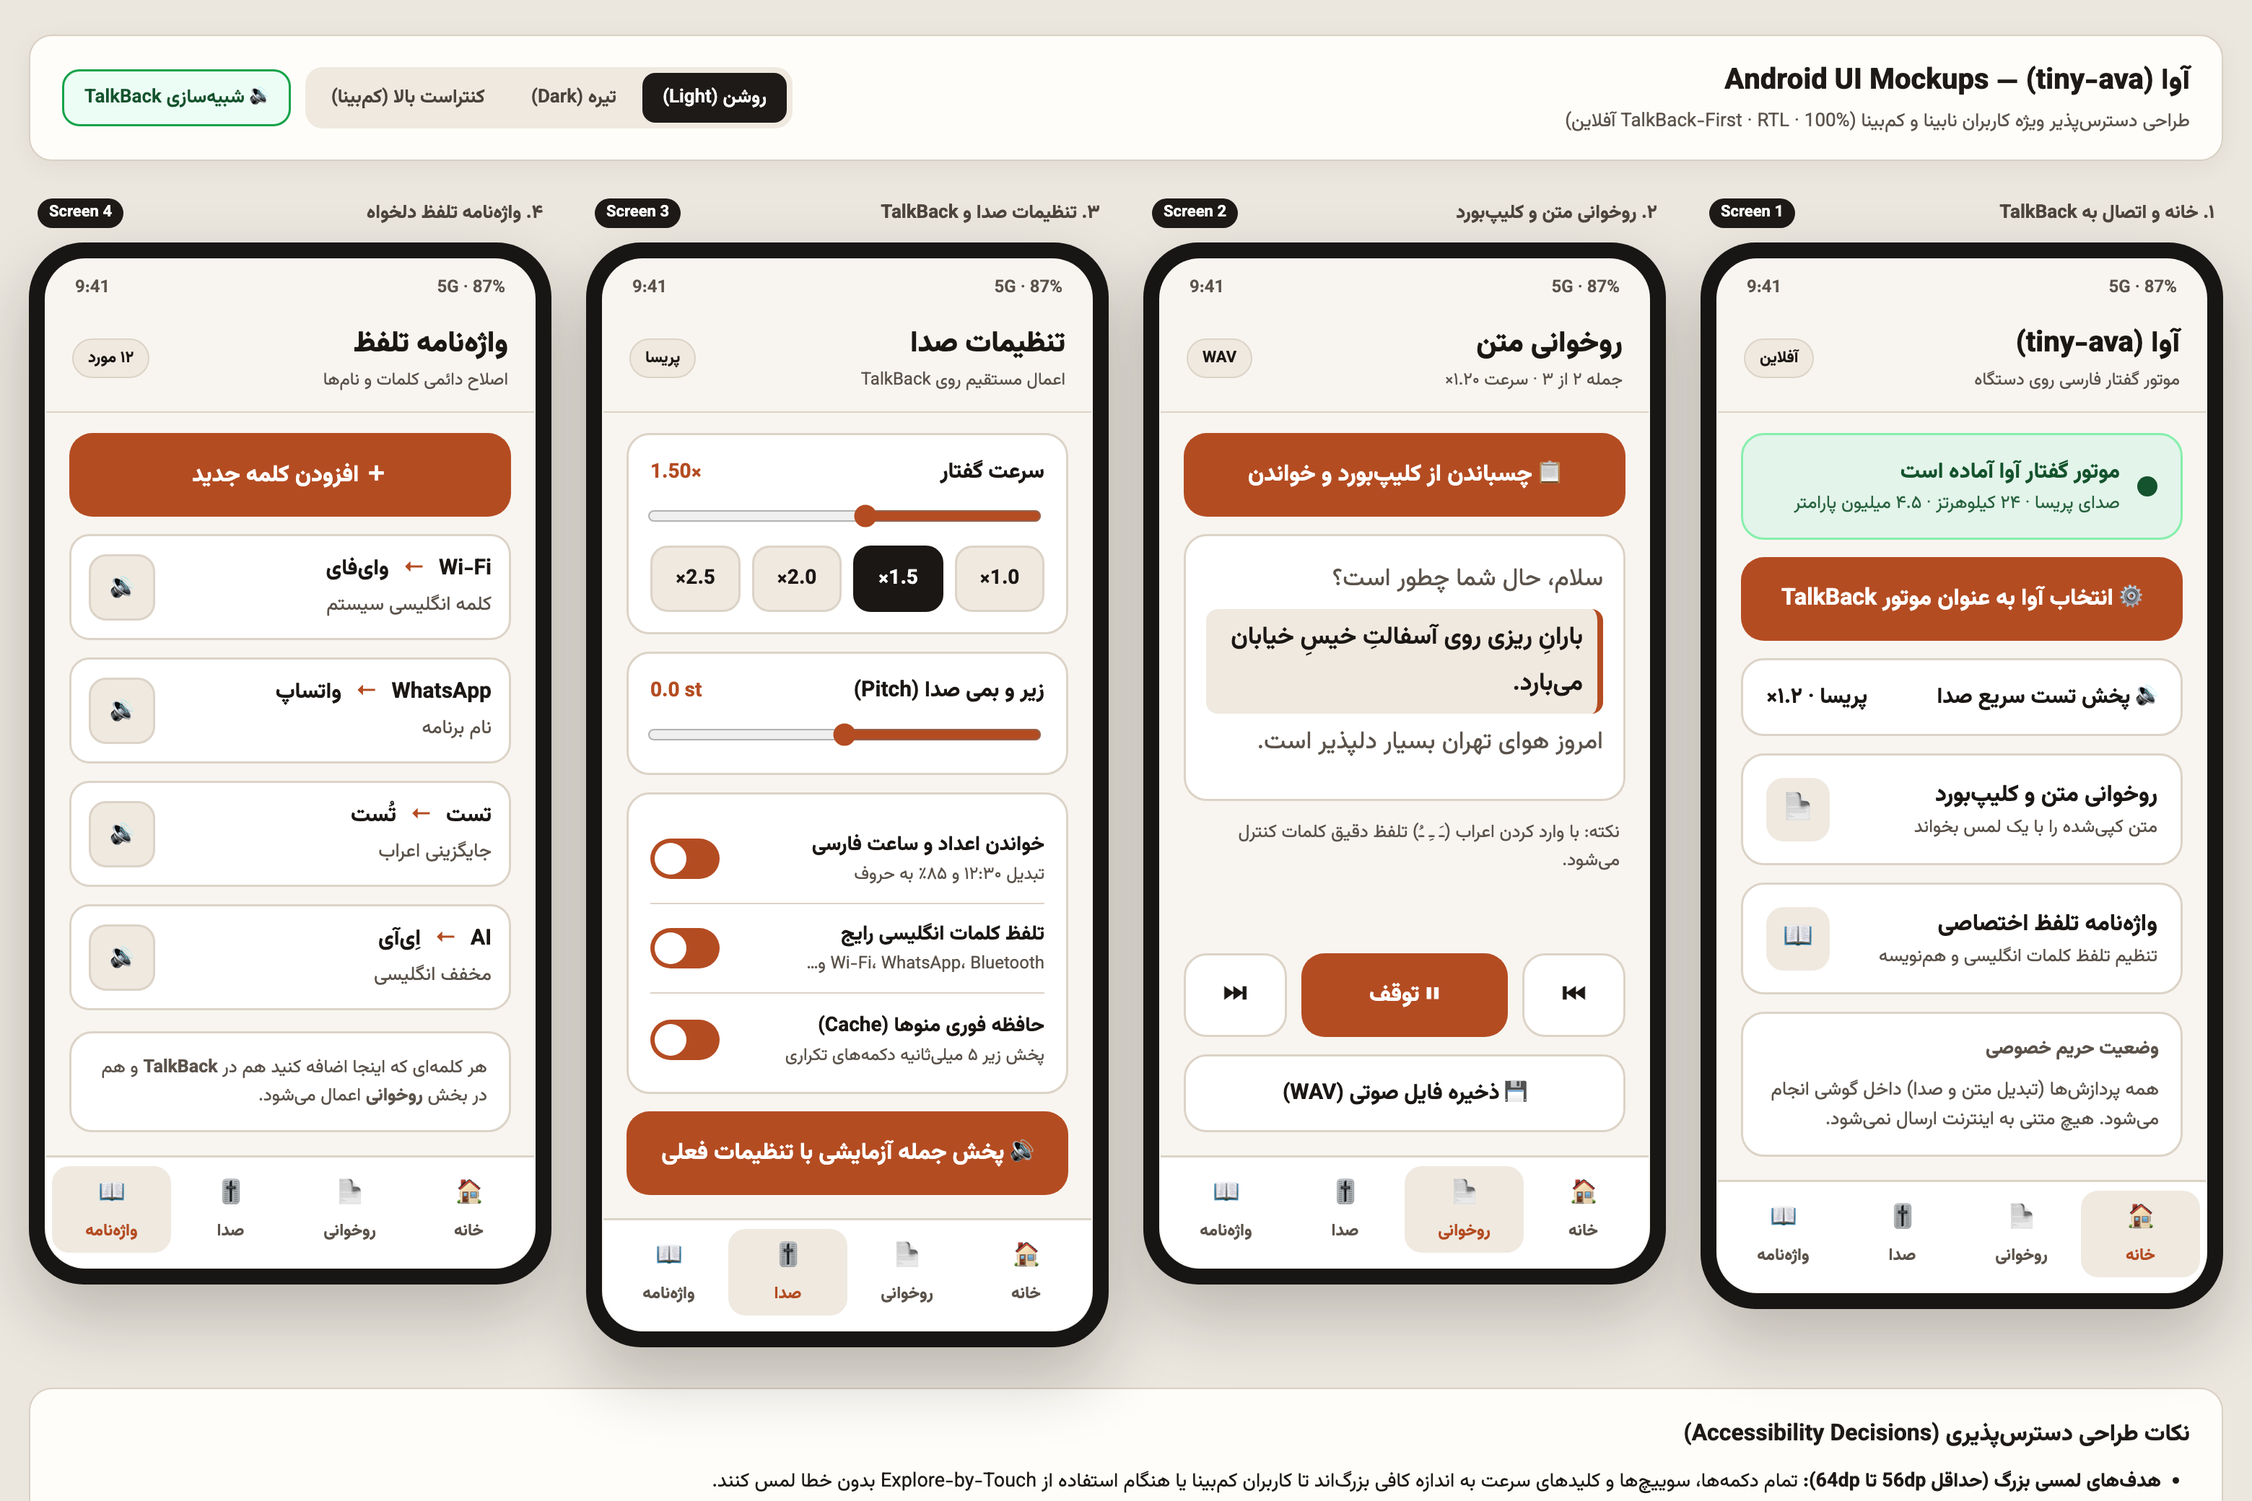
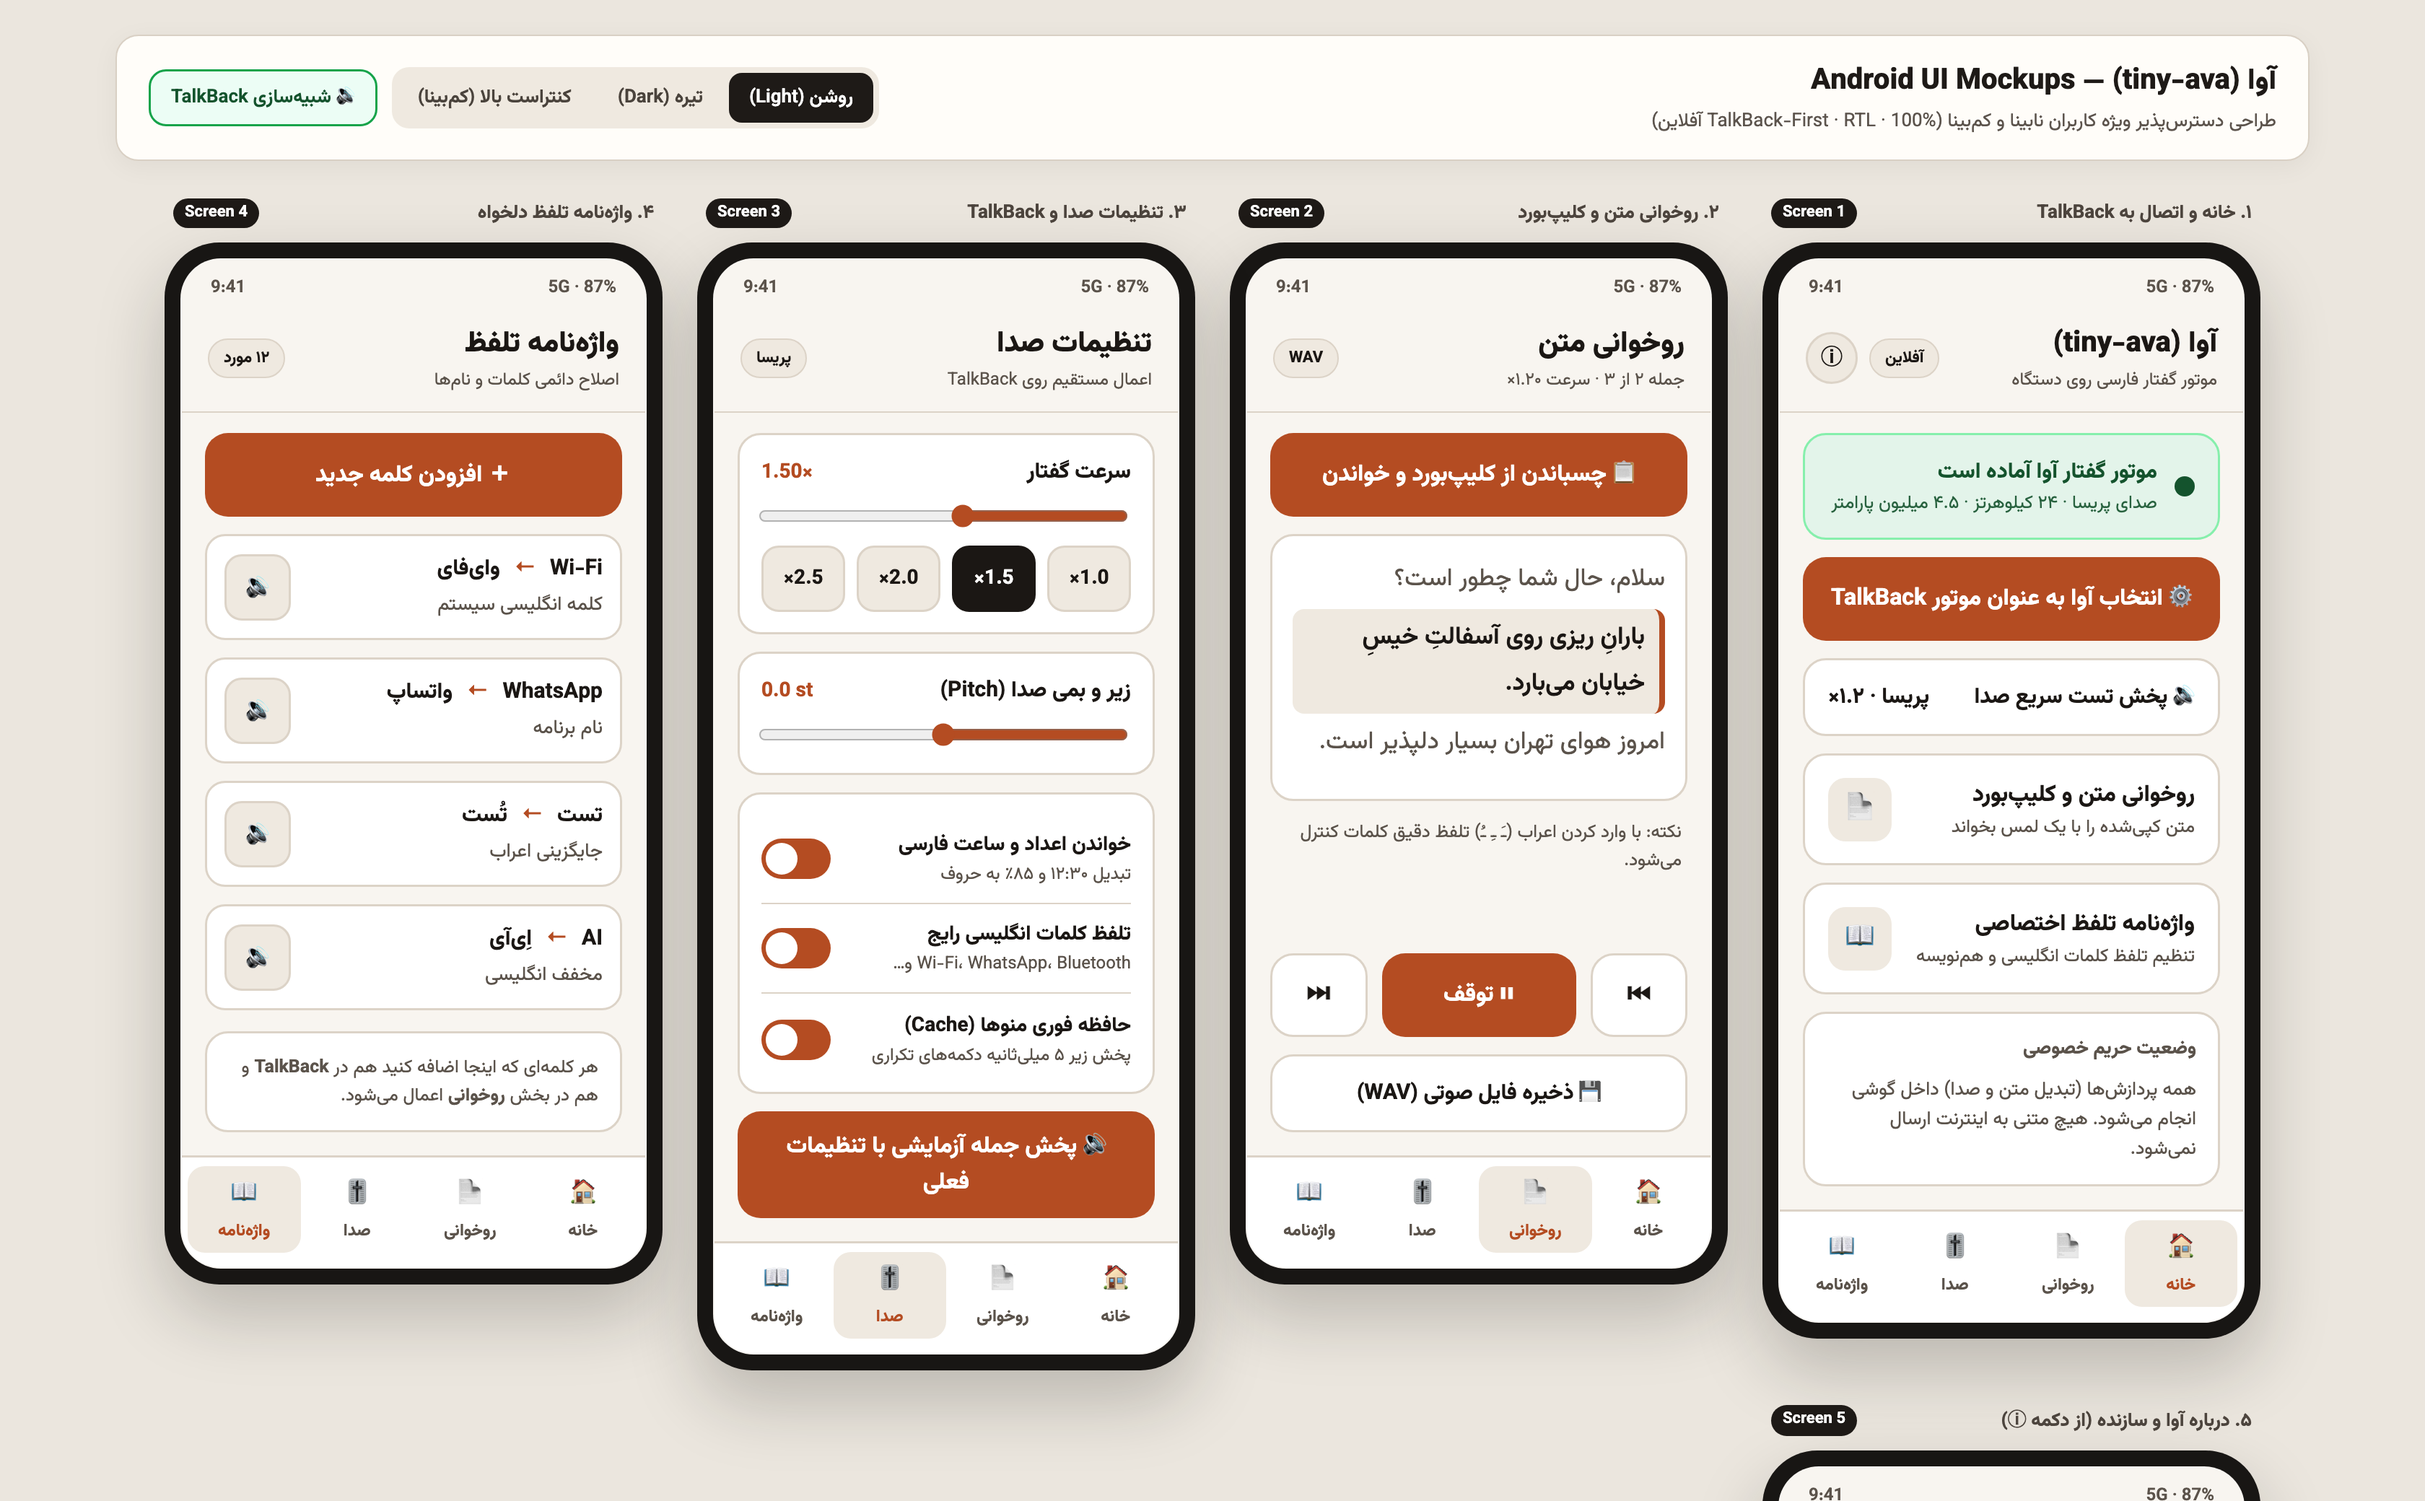
android-app: add Screen 5 (About & Credits: Mehdi Allahyari / OncillaAI)

diff --git a/android-app/mockups/index.html b/android-app/mockups/index.html
@@ -104,17 +104,16 @@
   }
   .tb-toggle.active { background: #16a34a; color: #fff; }
 
-  /* Gallery of 4 Android screens */
+  /* Gallery of 5 Android screens */
   .gallery {
-    max-width: 1520px;
+    max-width: 1620px;
     margin: 0 auto;
     display: grid;
-    grid-template-columns: repeat(4, minmax(320px, 1fr));
+    grid-template-columns: repeat(auto-fit, minmax(310px, 345px));
     gap: 24px;
+    justify-content: center;
     align-items: start;
   }
-  @media (max-width: 1420px) { .gallery { grid-template-columns: repeat(2, minmax(330px, 380px)); justify-content: center; } }
-  @media (max-width: 760px) { .gallery { grid-template-columns: minmax(310px, 380px); } }
 
   .screen-col { display: flex; flex-direction: column; gap: 10px; }
   .screen-label {
@@ -161,6 +160,18 @@
     font-size: 11px; font-weight: 700; padding: 4px 10px; border-radius: 999px;
     background: var(--soft); color: var(--ink); border: 1px solid var(--line);
   }
+  .info-btn {
+    width: 36px; height: 36px; border-radius: 50%; border: 1.5px solid var(--line);
+    background: var(--soft); color: var(--ink); font: 700 15px "Vazirmatn", sans-serif;
+    display: grid; place-items: center; cursor: pointer;
+  }
+  .link-row {
+    display: flex; align-items: center; justify-content: space-between;
+    padding: 12px 14px; background: var(--card); border: 1.5px solid var(--line);
+    border-radius: 14px; min-height: 54px; text-decoration: none; color: var(--ink);
+  }
+  .link-row strong { display: block; font-size: 14.5px; }
+  .link-row small { display: block; font-size: 12px; color: var(--muted); direction: ltr; text-align: right; }
 
   /* Body */
   .body { padding: 14px 16px 16px; flex: 1; display: flex; flex-direction: column; gap: 12px; }
@@ -335,7 +346,10 @@
             <h2 class="appbar-title">آوا (tiny-ava)</h2>
             <div class="appbar-sub">موتور گفتار فارسی روی دستگاه</div>
           </div>
-          <span class="offline-pill">آفلاین</span>
+          <div style="display:flex; align-items:center; gap:8px;">
+            <span class="offline-pill">آفلاین</span>
+            <button class="info-btn" aria-label="درباره آوا">ⓘ</button>
+          </div>
         </div>
 
         <div class="body">
@@ -561,6 +575,69 @@
           <div class="nav-item"><i>🎚</i>صدا</div>
           <div class="nav-item active"><i>📖</i>واژهنامه</div>
         </nav>
+      </div>
+    </div>
+  </div>
+
+  <!-- SCREEN 5: ABOUT & CREDITS -->
+  <div class="screen-col">
+    <div class="screen-label"><span>۵. درباره آوا و سازنده (از دکمه ⓘ)</span><span class="num">Screen 5</span></div>
+    <div class="phone">
+      <div class="viewport">
+        <div class="statusbar"><span>9:41</span><span>5G · 87%</span></div>
+        <div class="appbar">
+          <div>
+            <h2 class="appbar-title">درباره آوا</h2>
+            <div class="appbar-sub">نسخه ۱.۰.۰ · OncillaAI</div>
+          </div>
+          <span class="offline-pill">بازگشت →</span>
+        </div>
+
+        <div class="body">
+          <div class="card tb-focus" style="text-align:center; padding:18px 16px;">
+            <div style="font-size:24px; font-weight:800; color:var(--accent);">آوا · tiny-ava</div>
+            <div style="font-size:13.5px; margin-top:4px; font-weight:600;">ساختهشده توسط مهدی اللهیاری (OncillaAI)</div>
+            <div style="font-size:12.5px; color:var(--muted); margin-top:6px;">
+              تبدیل متن به گفتار فارسی سریع، سبک و ۱۰۰٪ آفلاین؛ طراحیشده با تمرکز ویژه بر دسترسپذیری و کاربران نابینا و کمبینا.
+            </div>
+          </div>
+
+          <a class="link-row" href="https://oncillaai.com" target="_blank" rel="noopener">
+            <div>
+              <strong>🌐 وبسایت OncillaAI</strong>
+              <small>oncillaai.com</small>
+            </div>
+            <span>↗</span>
+          </a>
+
+          <a class="link-row" href="https://huggingface.co/mehdi-hf/tiny-ava" target="_blank" rel="noopener">
+            <div>
+              <strong>🤗 صفحه مدل در Hugging Face</strong>
+              <small>huggingface.co/mehdi-hf/tiny-ava</small>
+            </div>
+            <span>↗</span>
+          </a>
+
+          <a class="link-row" href="mailto:mehdi@oncillaai.com">
+            <div>
+              <strong>✉ گزارش تلفظ اشتباه یا پیشنهاد صدا</strong>
+              <small>mehdi@oncillaai.com</small>
+            </div>
+            <span>↗</span>
+          </a>
+
+          <div class="card" style="margin-top:auto;">
+            <div class="card-title">مشخصات مدل و مجوز</div>
+            <div style="font-size:12.5px; color:var(--muted); line-height:1.7;">
+              • موتور صدا: <strong>tiny-ava (پریسا، ۴.۵M)</strong> — CC BY 4.0<br>
+              • تبدیل خط به آوا: <strong>persian-g2p-tiny (۸.۳M)</strong> — MIT<br>
+              • کد برنامه: <strong>Apache-2.0</strong> (مبتنی بر معماری tiny-voca)<br>
+              • حریم خصوصی: بدون جمعآوری هیچگونه داده
+            </div>
+          </div>
+        </div>
+
+        <div class="tb-toast">TalkBack: «آوا، ساختهشده توسط مهدی اللهیاری، OncillaAI. تبدیل متن به گفتار فارسی ۱۰۰ درصد آفلاین.»</div>
       </div>
     </div>
   </div>
